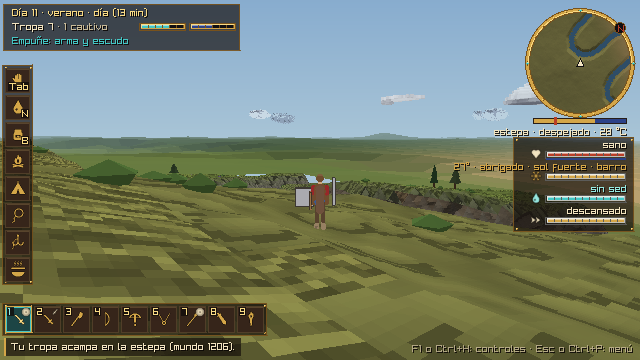
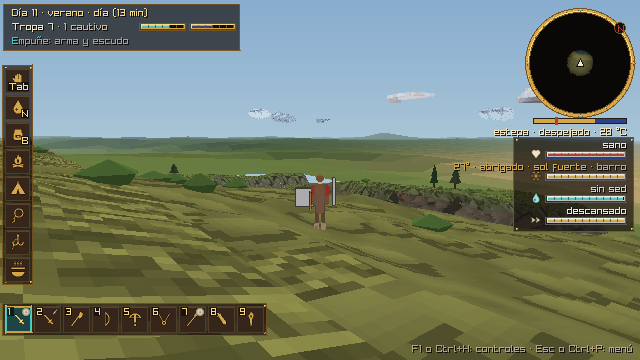
Minimapa: lo no explorado queda a oscuras; lo explorado muestra su geografia (v0.4.1)
La oscuridad de lo no explorado es parte del juego: la geografia (regiones, relieve, agua,
nieve) solo aparece donde el jugador estuvo, y se apaga al olvidarse. Para que se note lo
recorrido, la memoria guarda 40 m alrededor (antes 22) y el minimapa cubre 150 m.

Claude-Session: https://claude.ai/code/session_01LSTD6iWnn2bnoyhKZ9wkd2

diff --git a/src/ui/minimap.c b/src/ui/minimap.c
@@ -192,9 +192,9 @@ void minimap_draw(Minimap *mm, const MemoryMap *map, Vector2 center, Vector3 pla
             float wz = player_pos.z + (rz * dx - fz * dy) * mpp;
             float light = memmap_light(map, wx, wz, now);
             MinimapCell *cell = NULL;
-            if (mm->world && mm->cache)
+            if (mm->world && mm->cache && light > 0.02f) // lo no explorado queda a oscuras
                 cell = cell_at(mm, (int)floorf(wx / MINIMAP_CELL), (int)floorf(wz / MINIMAP_CELL), &budget);
-            if (!cell) { // sin mundo (o la celda aun sin calcular): la tinta de la memoria
+            if (!cell) { // sin explorar (oscuro), sin mundo o la celda aun sin calcular
                 *px = memory_color(light);
                 continue;
             }
@@ -206,9 +206,8 @@ void minimap_draw(Minimap *mm, const MemoryMap *map, Vector2 center, Vector3 pla
                 c = (Color){ (unsigned char)fminf(255.0f, c.r * shade), (unsigned char)fminf(255.0f, c.g * shade),
                              (unsigned char)fminf(255.0f, c.b * shade), 255 };
             }
-            // La tribu conoce su tierra: la geografia se ve siempre, apagada donde no estuviste y
-            // viva donde la recuerdas.
-            *px = lerp_color(memory_color(0.0f), c, 0.6f + 0.4f * fminf(1.0f, light * 1.4f));
+            // Lo explorado muestra su geografia; al olvidarse se apaga hacia la oscuridad.
+            *px = lerp_color(memory_color(0.0f), c, 0.25f + 0.75f * fminf(1.0f, light * 1.4f));
         }
     }
     UpdateTexture(mm->tex, mm->pixels);

diff --git a/src/ui/minimap.h b/src/ui/minimap.h
@@ -1,8 +1,8 @@
 // Minimapa circular tipo brujula, girado segun la direccion de la camara (arriba = hacia donde
 // mira el jugador). Muestra la geografia que el jugador recuerda (sim/memory_map): las regiones
 // (estepa, bosque, altiplano, fiordos, desierto), el relieve sombreado, rios, lagos y mar, la
-// nieve de las cumbres, y los pueblos, tribus y guaridas ya vistos. Lo no recorrido o
-// olvidado se ve apagado.
+// nieve de las cumbres, y los pueblos, tribus y guaridas ya vistos. Lo no explorado queda
+// a oscuras (es parte del juego) y lo olvidado se va apagando.
 #ifndef ESTEPA_UI_MINIMAP_H
 #define ESTEPA_UI_MINIMAP_H
 

diff --git a/src/main.c b/src/main.c
@@ -663,7 +663,7 @@ int main(int argc, char **argv) {
     bool show_card = false;
     memmap_init(&g_memory);
     Minimap minimap;
-    minimap_init(&minimap, MINIMAP_RADIUS, 4.0f); // 4 m por pixel: 200 m de radio
+    minimap_init(&minimap, MINIMAP_RADIUS, 3.0f); // 3 m por pixel: 150 m de radio
     char log[128] = "";
     char *inv_text = LoadFileText(platform_asset_path("assets/inventario.tsv"));
     if (inv_text) {

diff --git a/src/sim/memory_map.c b/src/sim/memory_map.c
@@ -8,7 +8,7 @@
 
 MemoryParams memmap_default_params(void) {
     return (MemoryParams){
-        .sight_radius = 22.0f,
+        .sight_radius = 40.0f, // la estepa es abierta: se recuerda lo que se ve alrededor
         .gain = 0.35f,
         .forget_days = 3.0f, // una zona vista de pasada se borra en una o dos semanas de juego
         .base_cap = 0.3f,

diff --git a/docs/GDD.md b/docs/GDD.md
@@ -64,7 +64,7 @@ RPG de mundo abierto en 3D con gráficos pixel/low-res, ambientado en las estepa
 - **Empieza negro:** el personaje no conoce el mundo. Las zonas se **iluminan poco a poco** a medida que el jugador las recorre.
 - **Frecuencia = nitidez:** cada zona acumula familiaridad. Lo recorrido a menudo brilla más, como la memoria espacial real.
 - **Olvido en días de juego:** el brillo se apaga con los días (un día de juego = 30 minutos reales; `src/sim/clock.h`). Una zona vista de pasada se borra en una o dos semanas de juego; lo familiar dura mucho más (repetición espaciada).
-- **Todo el mundo:** el minimapa siempre se centra en el jugador y muestra la geografía a su alrededor (200 m): regiones, relieve sombreado, ríos, lagos, mar, deshielo y nieve de las cumbres, y los pueblos, tribus, guaridas y ruinas ya vistos. Lo no recorrido u olvidado se ve apagado. La memoria se guarda por páginas que solo se crean al explorar, así que crece con lo recorrido, no con el tamaño del mundo.
+- **Todo el mundo:** el minimapa siempre se centra en el jugador y muestra a su alrededor (150 m) la geografía ya explorada: regiones, relieve sombreado, ríos, lagos, mar, deshielo y nieve de las cumbres, y los pueblos, tribus, guaridas y ruinas vistos. Lo no explorado queda a oscuras, y lo olvidado se va apagando. La memoria se guarda por páginas que solo se crean al explorar, así que crece con lo recorrido, no con el tamaño del mundo.
 - **Días automáticos:** el reloj de juego avanza los días solo; `Enter` salta al amanecer siguiente y `Ctrl+N` adelanta dos minutos (prueba).
 - **Marcas:** el jugador marca sitios de interés (`M`) o de peligro (`Shift+M`). Pulsar de nuevo cerca de una marca la quita. Las marcas fuera de alcance quedan en el borde, señalando su dirección.
 - Los parámetros (radio de vista, velocidad de aprendizaje y de olvido, brillo de una sola pasada) están en `memmap_default_params` y son de balance.

diff --git a/docs/MUNDO.md b/docs/MUNDO.md
@@ -125,7 +125,7 @@ El norte es −Z y el este +X.
 
 ![HUD](mundo/hud.png)
 
-*El HUD: el minimapa con la geografía (aquí, el meandro), la placa de las constantes, la barra rápida 1-9 y la columna de acciones.*
+*El HUD: el minimapa (lo explorado muestra su geografía; lo demás, a oscuras), la placa de las constantes, la barra rápida 1-9 y la columna de acciones.*
 
 ![Cielo](mundo/cielo.png)
 
